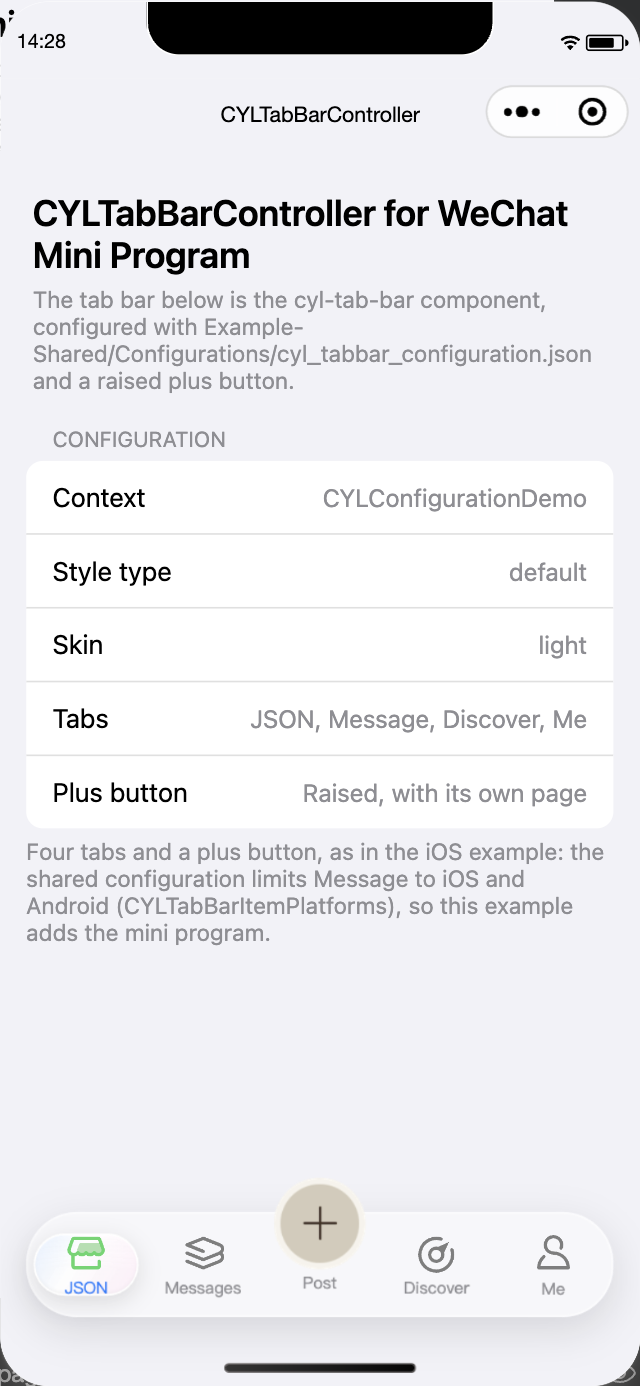
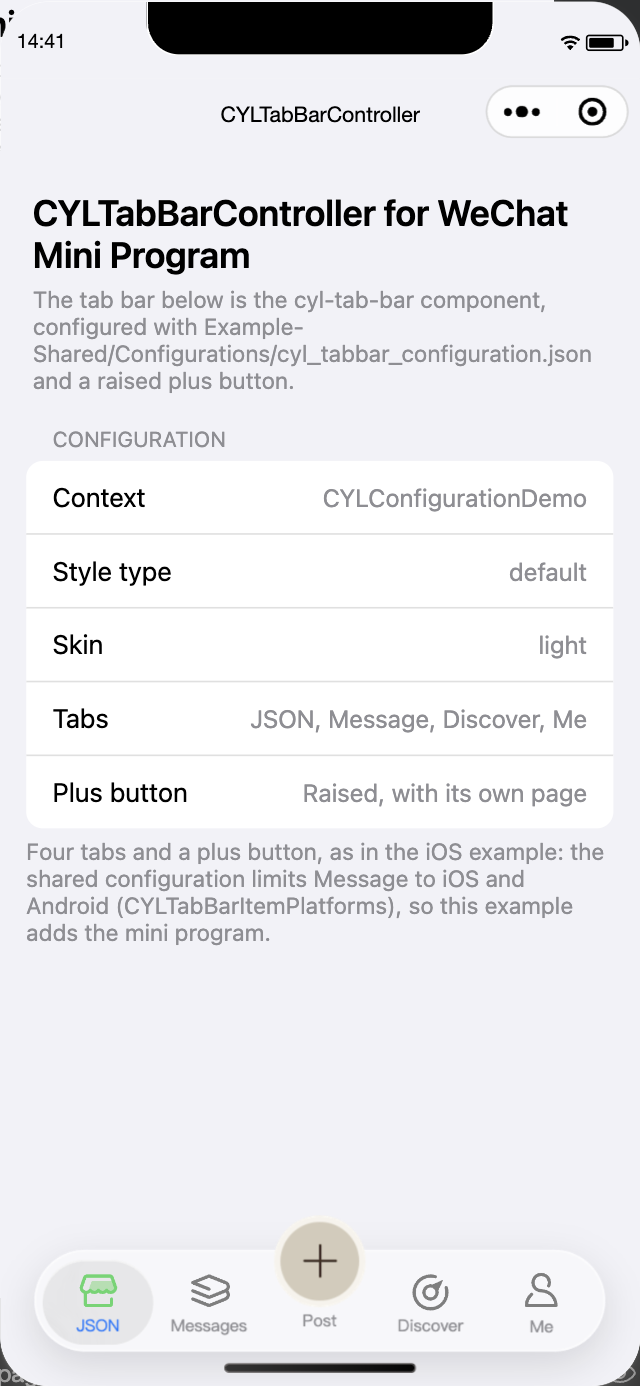
fix: 🐛 Liquid Glass lens spacing matches the iOS example
The lens floated at mid height in an item shorter than the bar, with a
fixed 64 px width and a colored edge. Measured on the iOS example: the
lens fills the slot about 4 pt inside the capsule, 52 pt high, flat
gray; the capsule sits 21 pt from the sides and the bottom edge.

Now: the item fills the bar, the lens fills its slot 5 px from top and
bottom, neutral gray; the capsule is 21 px from the sides and bottom.
Measured in DevTools: bar 21 / 21 / 21, 62 high; lens 67.6 x 52.
Screenshots 25, 26, 28 retaken, 32 added; tests 16 / 16.

By  @ChenYilong <luohanchenyilong@163.com>

diff --git a/docs/WeChat-Mini-Program.md b/docs/WeChat-Mini-Program.md
@@ -389,7 +389,7 @@
 </details>
 
 <details>
-<summary>25. CYLTabBarItemStyle liquidGlass，浅色：悬浮玻璃胶囊，选中的 Home 位于玻璃透镜上 / CYLTabBarItemStyle liquidGlass, light: the floating glass capsule, the selected Home on its glass lens. WeChat Mini Program, WeChat DevTools simulator (iPhone, macOS 27.3), base library 3.17.6, branch feat/cross-platform-components after 58446e1, 2026-11-13 14:28 (UTC+13)</summary>
+<summary>25. CYLTabBarItemStyle liquidGlass，浅色：悬浮玻璃胶囊，选中的 Home 位于玻璃透镜上 / CYLTabBarItemStyle liquidGlass, light: the floating glass capsule, the selected Home on its glass lens. WeChat Mini Program, WeChat DevTools simulator (iPhone, macOS 27.3), base library 3.17.6, branch feat/cross-platform-components after 33aa7bf (retaken with the lens fix), 2026-11-13 14:41 (UTC+13)</summary>
 
 ![CYLTabBarItemStyle liquidGlass, light](assets/wechat-miniprogram-api-25-glass-light.png)
 
@@ -399,6 +399,20 @@
 <summary>26. CYLTabBarItemStyle liquidGlass，深色皮肤，选中 Discover / CYLTabBarItemStyle liquidGlass, dark skin, Discover selected. Same environment as 25</summary>
 
 ![CYLTabBarItemStyle liquidGlass, dark skin](assets/wechat-miniprogram-api-26-glass-dark.png)
+
+</details>
+
+<details>
+<summary>31. Bug：液态玻璃透镜间距不对（维护者截图）/ Bug: the Liquid Glass lens spacing is wrong (the maintainer's screenshot). WeChat Mini Program, WeChat DevTools simulator (iPhone, macOS 27.3), base library 3.17.6, commit e1e9c04, 2026-11-13 14:28 (UTC+13)</summary>
+
+![Bug: the Liquid Glass lens spacing is wrong](assets/wechat-miniprogram-api-31-bug-lens-spacing.png)
+
+</details>
+
+<details>
+<summary>32. 修复后：透镜占满选中位置，TabBar 距两侧与底边 21 pt，与 iOS 示例一致 / Fixed: the lens fills the selected slot, the bar 21 pt from the sides and the bottom, as in the iOS example. WeChat Mini Program, WeChat DevTools simulator (iPhone, macOS 27.3), base library 3.17.6, branch feat/cross-platform-components after 33aa7bf, 2026-11-13 14:41 (UTC+13)</summary>
+
+![Fixed: the lens fills the selected slot, as in the iOS example](assets/wechat-miniprogram-api-32-fix-lens-spacing.png)
 
 </details>
 
@@ -546,4 +560,4 @@
 | 见右列。 | DONE (2026-11-13, PAG tab icons on full libpag): `cyl-pag` runs on the full **libpag-miniprogram 4.5.85** (August 2026; the newest 4.4.76, 6 days old, fails in `PAGInit` with "UnboundTypeError: Cannot call VectorString.push_back due to unbound types" in DevTools). The example shows the four vector tab icons of the iOS PAG example (home → `tab_home`, message → `tab_moments`, discover → `tab_health`, me → `tab_me`), screenshots 19 and 20. Measured with a playback probe in DevTools: tapping Message, the tapped bar is at 6 % after 151 ms, the new page's bar continues (24 % at 457 ms) to 100 % at 1.85 s (duration 1.83 s), then stops; Me: 36 % at 447 ms, 100 % at 1.24 s (duration 1.17 s). The installer no longer copies `cylMiniprogramAssets` into `miniprogram_npm` (a second copy of each WebAssembly, unreadable there): the example's files went from 3.36 MB to 2.25 MB. Open: a real device check; the main package is still above 2 MB, see the package split task below. Tests: `npm test` 15 / 15. Original entry: TODO (2026-11-13, PAG tab icons on full libpag). User prompt, verbatim: "continue 阅读docs里小程序相关文档，以及最新小程序相关提交继续TODO任务。" English: read the mini program docs and the latest mini program commits, and continue the TODO tasks. Context: the code layout and playback task is DONE (`b439873`, `5cf9723`, `7f2a184`); the open TODO is the PAG bug above. Plan: `cyl-pag` moves from libpag-lite (BMP sequences only) to the full `libpag-miniprogram` 4.4.76 (Apache-2.0, WebAssembly + WebGL: 337 KB of JavaScript plus a 590 KB Brotli WASM, not 4.6 MB, which counted the source map and the raw WASM), so the vector iOS tab icons (`tab-icons/tab_home.pag`, `tab_moments.pag`, `tab_health.pag`, `tab_me.pag`) play; the WASM is copied to `miniprogram/cyl-pag-miniprogram/` like Rive's; check in WeChat DevTools with `cyl_playback` and a screenshot. |
 | 见右列。 | DONE (2026-11-13, one package per animation library): `cyl-tabbar-miniprogram` depends on no animation library; `cyl-tab-bar-item` and `cyl-tab-bar` take `cyl-lottie-view`, `cyl-pag-view` and `cyl-rive-view` as abstract nodes (default `cyl-animation-placeholder`), checked in DevTools: each tab's animation component is the one passed. Four packages: `cyl-lottie-miniprogram`, `cyl-pag-miniprogram`, `cyl-rive-miniprogram` and the new `cyl-gif-miniprogram` (no component: GIF plays in `<image>`; it holds the GIF icons); each lists its icons in `cylExampleResources`. The example installs one, Lottie by default (`npm run setup -- --animation=pag`), copies only its icons, and its Me page lists only it and Images. Measured code package: Lottie 0.45 MB, PAG 1.20 MB, Rive 0.85 MB, GIF 0.33 MB, against 2.25 MB with all three runtimes; screenshots 21–24; `npm test` 15 / 15, `npm run check` passes. Open: the first compile after switching packages logged "Component is not found in path wx://not-found" once in DevTools (gone after a second compile); with Rive installed by default the light skin makes its white icons faint (the Me page picks the dark skin only when Rive is chosen there); a real device check. Original entry: TODO (2026-11-13, one package per animation library). User prompt, verbatim: "包大小限制问题可以通过将不同的代码拆分为子组件的方式，比如动效可以拆分为四个包gif lottie pag live分别一个包，供用户在集成式自由选择，我们的example也可以用这种方式保留一种动效，同时比如资源文件也应该打到对应的子组件中。进一步缩小包体积。" English: solve the package size limit by splitting the code into sub-components: one package per animation (GIF, Lottie, PAG, Rive), which integrators choose freely; the example keeps one animation the same way; resource files also go into the matching sub-component, to shrink the package further. Context: after the PAG fix the example is 2.25 MB, above the 2 MB main package (Lottie 0.21 MB, PAG 0.93 MB, Rive 0.67 MB of it). Plan: (1) `cyl-tabbar-miniprogram` no longer depends on the animation packages: `cyl-tab-bar-item` gets abstract nodes (`componentGenerics`: `cyl-lottie-view`, `cyl-pag-view`, `cyl-rive-view`, `cyl-gif-view`, each defaulting to an empty view) which `cyl-tab-bar` forwards, and the app names the component it installed (`generic:cyl-lottie-view="cyl-lottie"`); (2) a fourth package `cyl-gif-miniprogram` for GIF icons; (3) each package carries its sample icons; (4) the example installs one animation package, chosen at setup (`npm run setup -- --animation=lottie`, default Lottie), and the Me page lists only the installed one; (5) measure the package per choice, check each in DevTools with a screenshot. |
 | 见右列。 | DONE (2026-11-13, Liquid Glass tab bar item and style enum): (1) licenses: chatnote-miniprogram and sports-checkin-miniprogram state MIT in their READMEs (no LICENSE file), mirror-landing has none; only their design ideas were used, no code copied. (2) Core ([`e1e9c04`](https://github.com/ChenYilong/CYLTabBarController/commit/e1e9c04)): `CYLTabBarItemStyle` (`flat`, `liquidGlass`) shared by `cyl-tab-bar` and `cyl-tab-bar-item`; the lens lives in `cyl-tab-bar-item`; `cyl-tab-bar` takes `item-style` at initialization (else from `CYLTabBarControllerStyleType`) and `cyl_setItemStyle()` at run time; screenshots 25, 26; tests 16 / 16. (3) Example: `pages/glass`, the Liquid Glass gallery, opened from the Message tab, with a custom navigation bar, a search box, a feed list, two collection grids and a landing panel, switched by the core `cyl-tab-bar` (`item-style="liquidGlass"`, no glass code for the bar in the example); the reference animations (fade up, slide up, scale in, floating blobs) are rewritten there, next to the core tap animations and both item styles; data from `/data/*.json`; screenshots 27–30. Checked in DevTools: tapping the gallery bar switches the panel (`feed`), the style switch turns bar and items to `flat`. Open: lens spacing bug, see the next entry. Original entry: TODO (2026-11-13, Liquid Glass tab bar item and style enum). User prompt, verbatim: "为小程序相关文档添加todo项目：当前的样式定义为扁平样式，再增加液态玻璃与扁平风格样式之间的切换逻辑。定义枚举用于初始化时指定样式。参考：https://github.com/tyfuser/chatnote-miniprogram  https://github.com/1994Umbrella/mirror-landing  与 https://github.com/Akenaiai/sports-checkin-miniprogram  里面的UI设计思路完成液态玻璃样式的代码实现，完成液态玻璃tabbar的代码实现。优先将液态玻璃代码封装到我们已经实现好的 icon加title的组合中。禁止在example层实现液态玻璃。Core 层现有代码已经实现了扁平样式的tabbaritem仅需封装现有样式为扁平样式，并封装一个枚举以定义扁平样式与液态玻璃样式。再在整个tabbar初始化时候使用相同的枚举，为tabbaritem 指定样式。tabbaritem与tabbar 复用同一个枚举定义。并将以上的GitHub链接里的项目提取关键UI 尤其是液态玻璃样式的页面追加不同页面到我们的小程序主example中，采用不同tabbaritem的点击切换的方式展示。如果以上GitHub里面有任何动效相关的代码，也提取出来作为我们封装好的动效组件的示例追加到合适页面展示。我们现在的example还缺少导航栏以及搜索框以及feed tableview collectionview相关的页面展示，如果这些项目中有相关页面是使用我提到的可以提取页面进入我们的example中。数据层，可以优先使用本地固化的json文件用来进行数据展示。then continue" English: the current item style is flat; add switching between Liquid Glass and flat, with an enum that sets the style at initialization. Following the UI ideas of tyfuser/chatnote-miniprogram, 1994Umbrella/mirror-landing and Akenaiai/sports-checkin-miniprogram, implement the Liquid Glass style and the Liquid Glass tab bar, preferably inside our icon + title component (`cyl-tab-bar-item`); never implement Liquid Glass in the example layer. The core already draws a flat item: wrap it as the flat style and define one enum for flat and Liquid Glass, used both by `cyl-tab-bar-item` and by `cyl-tab-bar` at initialization (the bar gives its items the style); item and bar share the same enum. Add the key UI of those projects, above all their Liquid Glass pages, as separate pages of the main example, reached by tapping different tab items; any animation code in them becomes an example of our animation components on a fitting page. The example still lacks navigation bar, search box, feed (table view) and collection view pages: bring in such pages from these projects when they have them. Data: local fixed JSON files first. Plan: (1) read the three repositories and their licenses (copy code only when the license allows; otherwise reimplement the design); (2) `CYL_TAB_BAR_ITEM_STYLES` enum in the core (`flat`, `liquidGlass`), `itemStyle` on `cyl-tab-bar-item`, `cyl-tab-bar` passes it from `CYLTabBarControllerStyleType`; (3) Liquid Glass CSS in `cyl-tab-bar-item` (frosted lens, highlight, press animation) and the glass bar in `cyl-tab-bar`; (4) example pages from the references: navigation bar + search, feed list, collection grid, glass showcase, with local JSON; (5) tests, DevTools screenshots, score. |
-| 见右列。 | TODO (bug, 2026-11-13, Liquid Glass lens spacing). User prompt, verbatim: "在docs相关文档中找到，找到小程序文档 写入英文TODO并带上截图，描述bug，玻璃遮罩，也就是选中后的 tabbaritem上面的 小玻璃效果。 间距有问题。请像素级对比iOS example ，对比效果 修复 布局问题。continue" English: write an English TODO with a screenshot in the mini program document describing the bug: the glass lens, the small glass effect on the selected tab item, has wrong spacing; compare pixel by pixel with the iOS example and fix the layout. Screenshot: [31](assets/wechat-miniprogram-api-31-bug-lens-spacing.png) (the maintainer's, CYLTabBarItemStyle liquidGlass, Home selected). Measured against the iOS example ([plus-button-titles-fit-liquid-glass-ios.png](assets/plus-button-titles-fit-liquid-glass-ios.png), iPhone, 3x) in points: iOS lens about 73 x 52 pt, about 4 pt inside the bar on top, bottom and left, as wide as the tab slot, flat neutral gray, no colored edge; mini program lens 61 x 36 pt, a fixed 64 px width, 3 px inside an item shorter than the bar, so it floats at mid height with large gaps above and below; white with a pink / blue iridescent edge. Bar: iOS 21 pt from the screen sides and 21 pt from the bottom edge, 61 pt high; mini program 15 pt from the sides, 41 pt from the bottom (8 px + the safe area), 62 px high. Fix plan: the item fills the bar height; the lens fills the slot with 4 px insets; neutral iOS colors; the bar 21 px from the sides and from the bottom edge (inside the safe area as on iOS). |
+| 见右列。 | DONE (bug, 2026-11-13, Liquid Glass lens spacing): the item fills the bar's height and the lens fills its slot, 5 px from the top and bottom, neutral gray with a faint top highlight and no colored edge (`cyl-tab-bar-item`); the capsule sits 21 px from the screen sides and from the bottom edge, inside the safe area, with the tabs 4 px inside it (`cyl-tab-bar`). Measured in DevTools (390 x 753 pt window, safe area 34): bar 21 / 21 pt from the sides, 21 pt from the bottom, 62 high; lens 67.6 x 52 pt, 5 pt inside the bar on the left and top (iOS: 73 x 52 pt on a 402 pt screen, the same share of the slot, about 4 pt inside). Screenshots: [32](assets/wechat-miniprogram-api-32-fix-lens-spacing.png) (fixed), 25, 26 and 28 retaken with the fix; 31 keeps the bug. Tests 16 / 16. Original entry: TODO (bug, 2026-11-13, Liquid Glass lens spacing). User prompt, verbatim: "在docs相关文档中找到，找到小程序文档 写入英文TODO并带上截图，描述bug，玻璃遮罩，也就是选中后的 tabbaritem上面的 小玻璃效果。 间距有问题。请像素级对比iOS example ，对比效果 修复 布局问题。continue" English: write an English TODO with a screenshot in the mini program document describing the bug: the glass lens, the small glass effect on the selected tab item, has wrong spacing; compare pixel by pixel with the iOS example and fix the layout. Screenshot: [31](assets/wechat-miniprogram-api-31-bug-lens-spacing.png) (the maintainer's, CYLTabBarItemStyle liquidGlass, Home selected). Measured against the iOS example ([plus-button-titles-fit-liquid-glass-ios.png](assets/plus-button-titles-fit-liquid-glass-ios.png), iPhone, 3x) in points: iOS lens about 73 x 52 pt, about 4 pt inside the bar on top, bottom and left, as wide as the tab slot, flat neutral gray, no colored edge; mini program lens 61 x 36 pt, a fixed 64 px width, 3 px inside an item shorter than the bar, so it floats at mid height with large gaps above and below; white with a pink / blue iridescent edge. Bar: iOS 21 pt from the screen sides and 21 pt from the bottom edge, 61 pt high; mini program 15 pt from the sides, 41 pt from the bottom (8 px + the safe area), 62 px high. Fix plan: the item fills the bar height; the lens fills the slot with 4 px insets; neutral iOS colors; the bar 21 px from the sides and from the bottom edge (inside the safe area as on iOS). |

diff --git a/docs/README.md b/docs/README.md
@@ -384,6 +384,7 @@ docs/
 │   ├── wechat-miniprogram-api-29-gallery-cards.png
 │   ├── wechat-miniprogram-api-30-gallery-landing.png
 │   ├── wechat-miniprogram-api-31-bug-lens-spacing.png
+│   ├── wechat-miniprogram-api-32-fix-lens-spacing.png
 │   ├── wechat-miniprogram-badges.png
 │   ├── wechat-miniprogram-christmas-glass.png
 │   ├── wechat-miniprogram-flat-login.png
